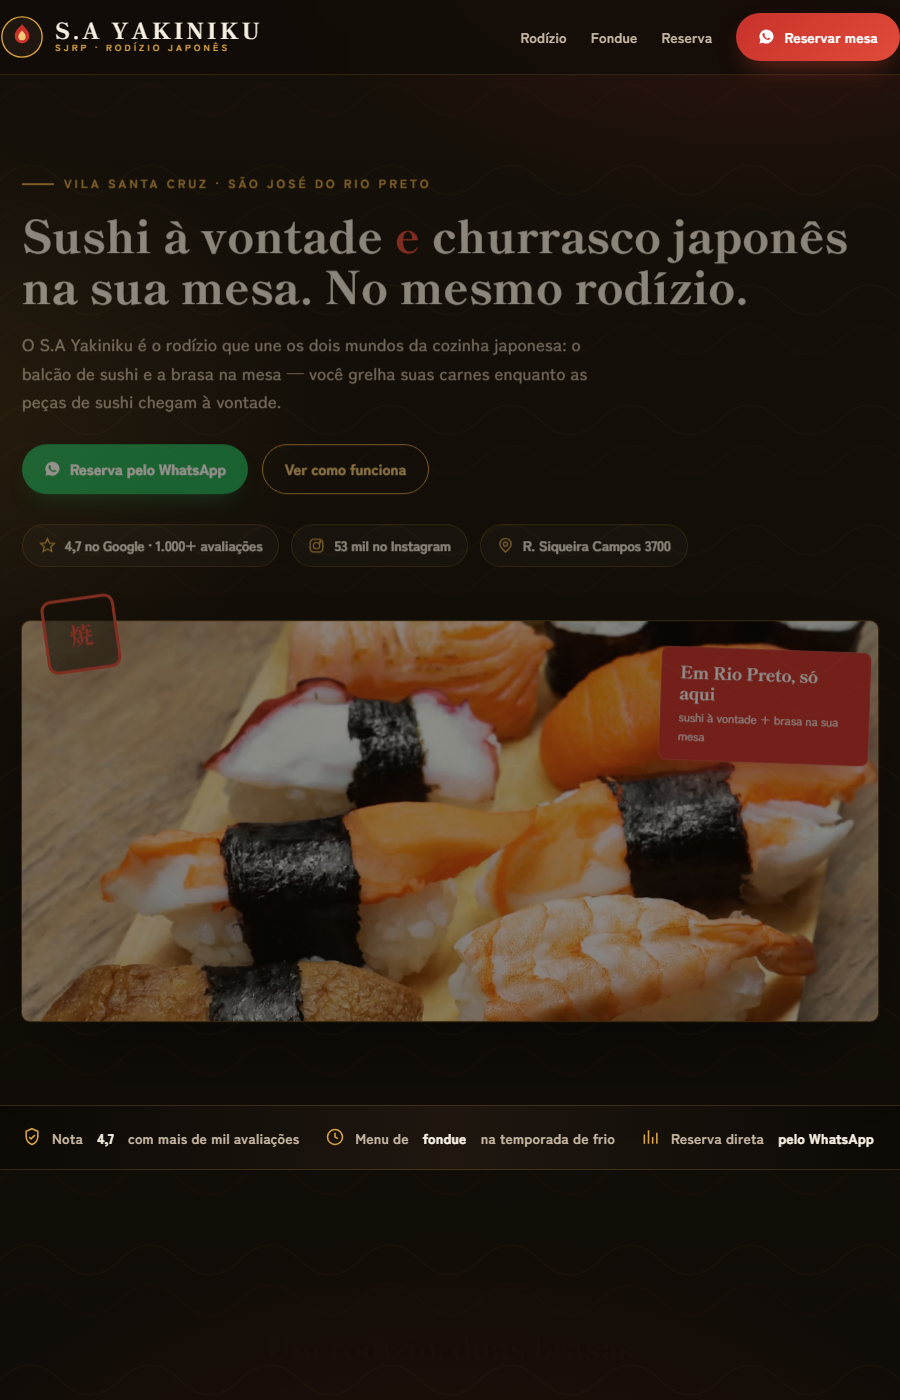
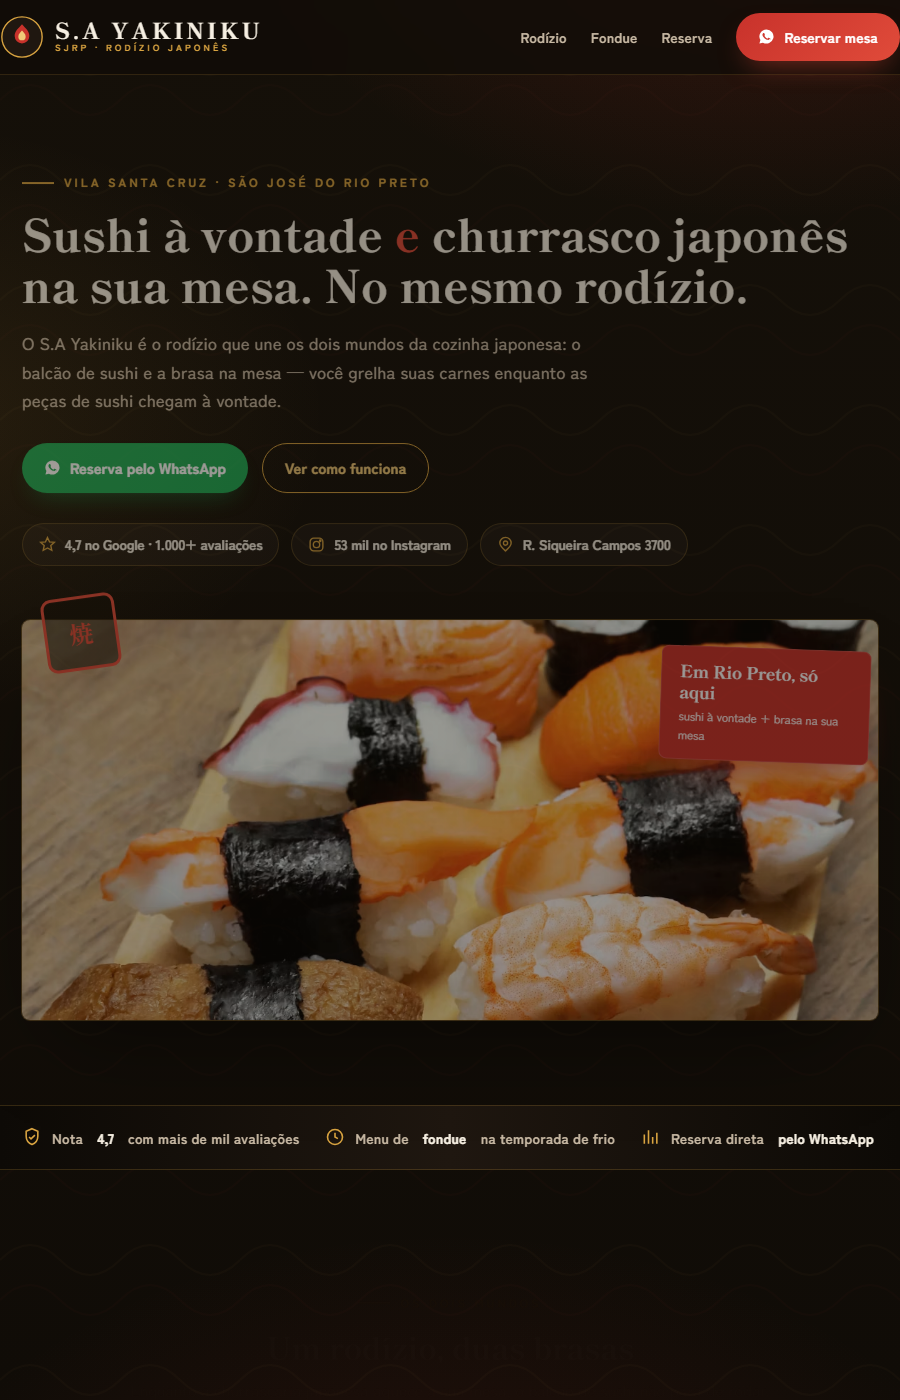
protos: publica sa-yakiniku (gate R5: 9/10 )

diff --git a/p/sa-yakiniku/index.html b/p/sa-yakiniku/index.html
@@ -17,7 +17,7 @@
   "name":"S.A Yakiniku",
   "image":"https://images.unsplash.com/photo-1563612116625-3012372fccce?q=80&w=1200&auto=format&fit=crop",
   "servesCuisine":["Japanese","Yakiniku","Rodízio"],
-  "telephone":"+5517981356292",
+  "telephone":"+5517981356292"
   "address":{"@type":"PostalAddress","streetAddress":"R. Siqueira Campos 3700","addressLocality":"São José do Rio Preto","addressRegion":"SP","addressCountry":"BR"},
   "aggregateRating":{"@type":"AggregateRating","ratingValue":"4.7","reviewCount":"1076"}
 }
